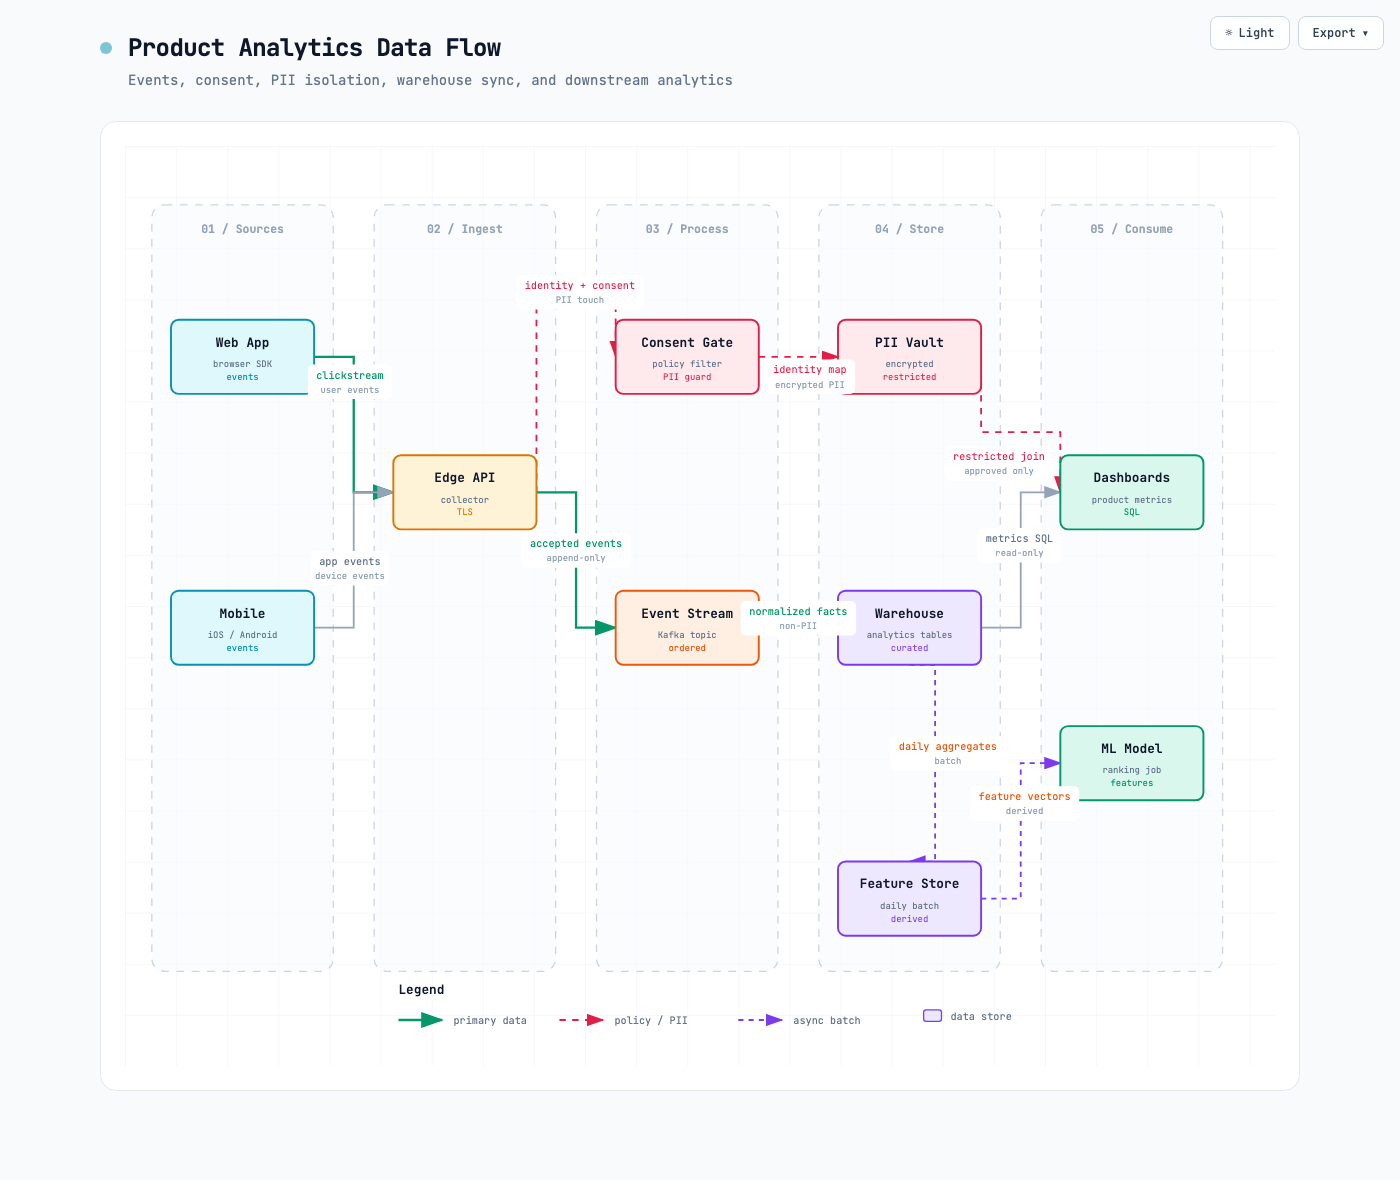
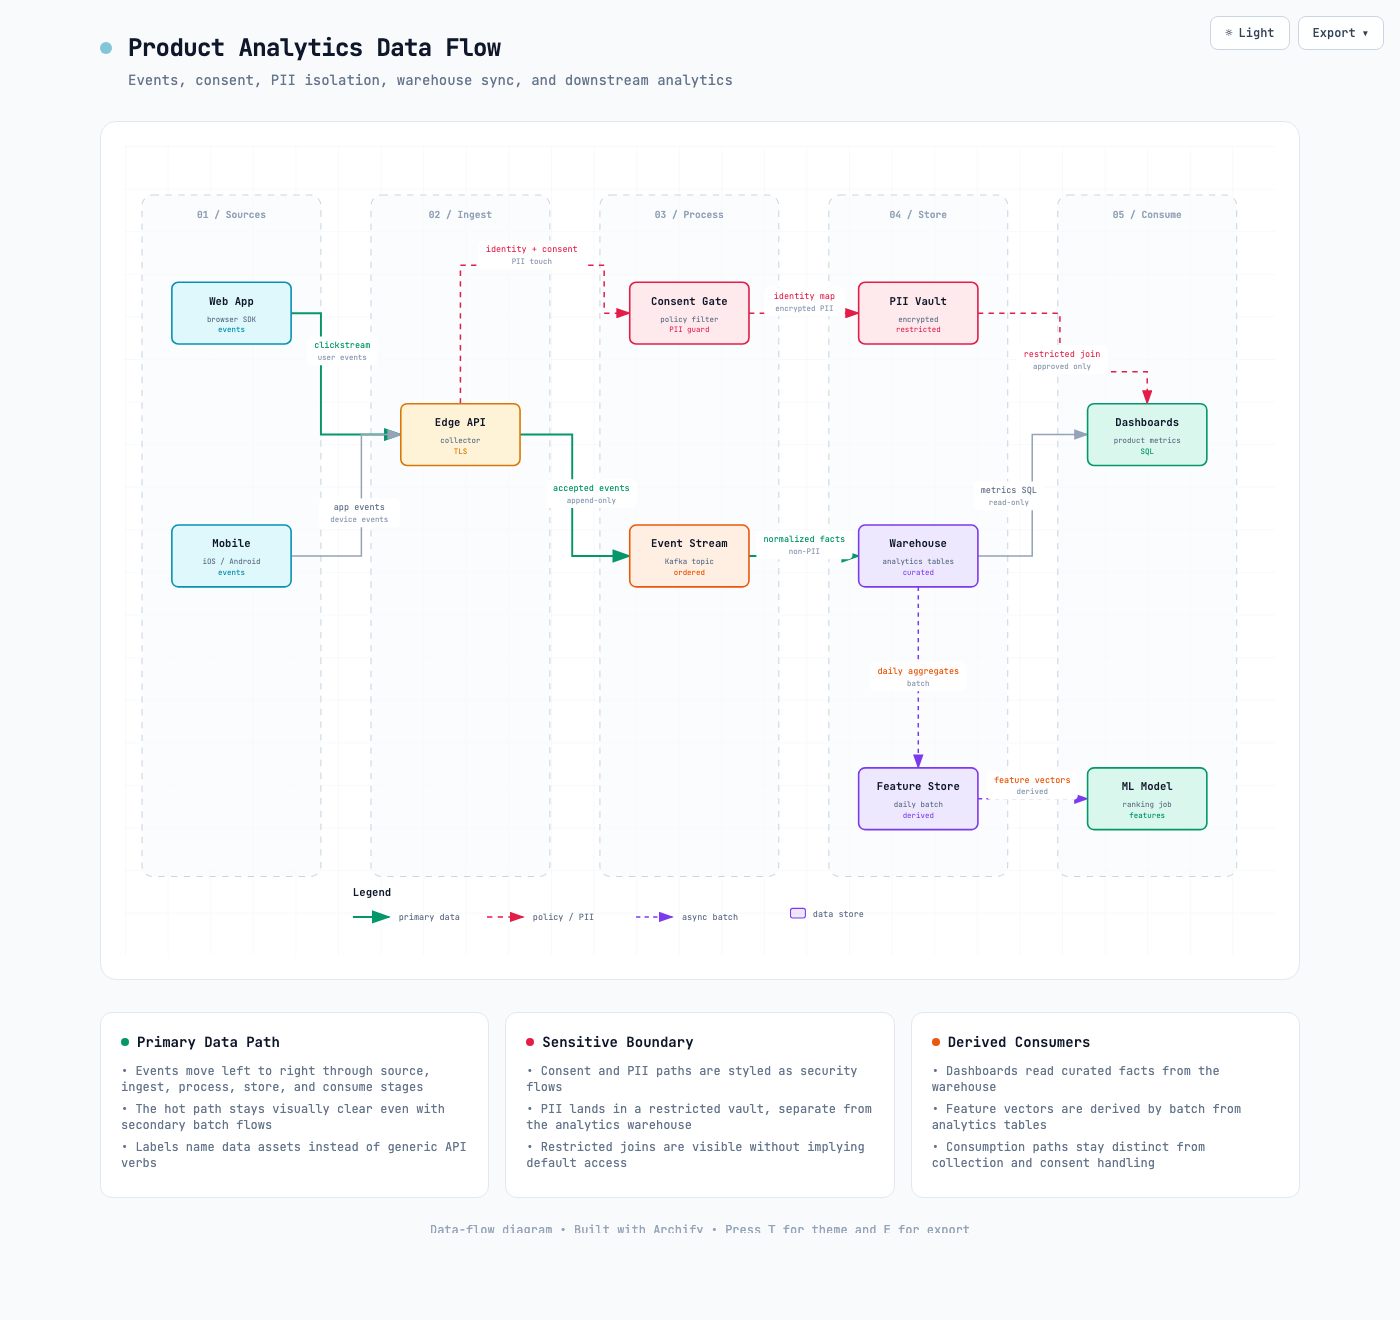
Polish data-flow diagram layout

diff --git a/examples/dataflow-product-analytics.html b/examples/dataflow-product-analytics.html
@@ -448,7 +448,7 @@
 
     <!-- Main Diagram -->
     <div class="diagram-container">
-      <svg viewBox="0 0 900 720">
+      <svg viewBox="0 0 1080 760">
         <!-- Definitions -->
         <defs>
           <marker id="arrowhead" markerWidth="10" markerHeight="7" refX="9" refY="3.5" orient="auto">
@@ -472,136 +472,136 @@
         <rect width="100%" height="100%" fill="url(#grid)" />
 
         <!-- Data Stages -->
-        <rect x="21" y="46" width="142" height="600" rx="10" class="c-lane" stroke-width="1"/>
-        <text x="92" y="68" class="t-dim" font-size="9" font-weight="600" text-anchor="middle">01 / Sources</text>
+        <rect x="16" y="46" width="168" height="640" rx="10" class="c-lane" stroke-width="1"/>
+        <text x="100" y="68" class="t-dim" font-size="9" font-weight="600" text-anchor="middle">01 / Sources</text>
 
-        <rect x="195" y="46" width="142" height="600" rx="10" class="c-lane" stroke-width="1"/>
-        <text x="266" y="68" class="t-dim" font-size="9" font-weight="600" text-anchor="middle">02 / Ingest</text>
+        <rect x="231" y="46" width="168" height="640" rx="10" class="c-lane" stroke-width="1"/>
+        <text x="315" y="68" class="t-dim" font-size="9" font-weight="600" text-anchor="middle">02 / Ingest</text>
 
-        <rect x="369" y="46" width="142" height="600" rx="10" class="c-lane" stroke-width="1"/>
-        <text x="440" y="68" class="t-dim" font-size="9" font-weight="600" text-anchor="middle">03 / Process</text>
+        <rect x="446" y="46" width="168" height="640" rx="10" class="c-lane" stroke-width="1"/>
+        <text x="530" y="68" class="t-dim" font-size="9" font-weight="600" text-anchor="middle">03 / Process</text>
 
-        <rect x="543" y="46" width="142" height="600" rx="10" class="c-lane" stroke-width="1"/>
-        <text x="614" y="68" class="t-dim" font-size="9" font-weight="600" text-anchor="middle">04 / Store</text>
+        <rect x="661" y="46" width="168" height="640" rx="10" class="c-lane" stroke-width="1"/>
+        <text x="745" y="68" class="t-dim" font-size="9" font-weight="600" text-anchor="middle">04 / Store</text>
 
-        <rect x="717" y="46" width="142" height="600" rx="10" class="c-lane" stroke-width="1"/>
-        <text x="788" y="68" class="t-dim" font-size="9" font-weight="600" text-anchor="middle">05 / Consume</text>
+        <rect x="876" y="46" width="168" height="640" rx="10" class="c-lane" stroke-width="1"/>
+        <text x="960" y="68" class="t-dim" font-size="9" font-weight="600" text-anchor="middle">05 / Consume</text>
 
         <!-- Flow paths -->
-        <path d="M 148 165 L 179 165 L 179 271 L 210 271" class="a-emphasis" stroke-width="1.8" marker-end="url(#arrowhead-emphasis)"/>
-        <path d="M 148 377 L 179 377 L 179 271 L 210 271" class="a-default" stroke-width="1.4" marker-end="url(#arrowhead)"/>
-        <path d="M 322 271 L 322 124 L 384 124 L 384 165" class="a-security" stroke-width="1.4" marker-end="url(#arrowhead-security)"/>
-        <path d="M 322 271 L 353 271 L 353 377 L 384 377" class="a-emphasis" stroke-width="1.8" marker-end="url(#arrowhead-emphasis)"/>
-        <path d="M 496 165 L 558 165" class="a-security" stroke-width="1.4" marker-end="url(#arrowhead-security)"/>
-        <path d="M 496 377 L 558 377" class="a-emphasis" stroke-width="1.8" marker-end="url(#arrowhead-emphasis)"/>
-        <path d="M 614 406 L 634 406 L 634 560 L 614 560" class="a-dashed" stroke-width="1.4" marker-end="url(#arrowhead-dashed)"/>
-        <path d="M 670 377 L 701 377 L 701 271 L 732 271" class="a-default" stroke-width="1.4" marker-end="url(#arrowhead)"/>
-        <path d="M 670 589 L 701 589 L 701 483 L 732 483" class="a-dashed" stroke-width="1.4" marker-end="url(#arrowhead-dashed)"/>
-        <path d="M 670 165 L 670 224 L 732 224 L 732 271" class="a-security" stroke-width="1.4" marker-end="url(#arrowhead-security)"/>
+        <path d="M 156 157 L 184 157 L 184 271 L 259 271" class="a-emphasis" stroke-width="1.8" marker-end="url(#arrowhead-emphasis)"/>
+        <path d="M 156 385 L 222 385 L 222 271 L 259 271" class="a-default" stroke-width="1.4" marker-end="url(#arrowhead)"/>
+        <path d="M 315 242 L 315 112 L 450 112 L 450 157 L 474 157" class="a-security" stroke-width="1.4" marker-end="url(#arrowhead-security)"/>
+        <path d="M 371 271 L 420 271 L 420 385 L 474 385" class="a-emphasis" stroke-width="1.8" marker-end="url(#arrowhead-emphasis)"/>
+        <path d="M 586 157 L 689 157" class="a-security" stroke-width="1.4" marker-end="url(#arrowhead-security)"/>
+        <path d="M 586 385 L 689 385" class="a-emphasis" stroke-width="1.8" marker-end="url(#arrowhead-emphasis)"/>
+        <path d="M 745 414 L 745 584" class="a-dashed" stroke-width="1.4" marker-end="url(#arrowhead-dashed)"/>
+        <path d="M 801 385 L 852 385 L 852 271 L 904 271" class="a-default" stroke-width="1.4" marker-end="url(#arrowhead)"/>
+        <path d="M 801 613 L 904 613" class="a-dashed" stroke-width="1.4" marker-end="url(#arrowhead-dashed)"/>
+        <path d="M 801 157 L 878 157 L 878 212 L 960 212 L 960 242" class="a-security" stroke-width="1.4" marker-end="url(#arrowhead-security)"/>
 
         <!-- Nodes -->
-        <rect x="36" y="136" width="112" height="58" rx="6" class="c-mask"/>
-        <rect x="36" y="136" width="112" height="58" rx="6" class="c-frontend" stroke-width="1.5"/>
-        <text x="92" y="157" class="t-primary" font-size="10" font-weight="600" text-anchor="middle">Web App</text>
-        <text x="92" y="173" class="t-muted" font-size="7" text-anchor="middle">browser SDK</text>
-        <text x="92" y="183" class="t-frontend" font-size="7" text-anchor="middle">events</text>
+        <rect x="44" y="128" width="112" height="58" rx="6" class="c-mask"/>
+        <rect x="44" y="128" width="112" height="58" rx="6" class="c-frontend" stroke-width="1.5"/>
+        <text x="100" y="149" class="t-primary" font-size="10" font-weight="600" text-anchor="middle">Web App</text>
+        <text x="100" y="165" class="t-muted" font-size="7" text-anchor="middle">browser SDK</text>
+        <text x="100" y="175" class="t-frontend" font-size="7" text-anchor="middle">events</text>
 
-        <rect x="36" y="348" width="112" height="58" rx="6" class="c-mask"/>
-        <rect x="36" y="348" width="112" height="58" rx="6" class="c-frontend" stroke-width="1.5"/>
-        <text x="92" y="369" class="t-primary" font-size="10" font-weight="600" text-anchor="middle">Mobile</text>
-        <text x="92" y="385" class="t-muted" font-size="7" text-anchor="middle">iOS / Android</text>
-        <text x="92" y="395" class="t-frontend" font-size="7" text-anchor="middle">events</text>
+        <rect x="44" y="356" width="112" height="58" rx="6" class="c-mask"/>
+        <rect x="44" y="356" width="112" height="58" rx="6" class="c-frontend" stroke-width="1.5"/>
+        <text x="100" y="377" class="t-primary" font-size="10" font-weight="600" text-anchor="middle">Mobile</text>
+        <text x="100" y="393" class="t-muted" font-size="7" text-anchor="middle">iOS / Android</text>
+        <text x="100" y="403" class="t-frontend" font-size="7" text-anchor="middle">events</text>
 
-        <rect x="210" y="242" width="112" height="58" rx="6" class="c-mask"/>
-        <rect x="210" y="242" width="112" height="58" rx="6" class="c-cloud" stroke-width="1.5"/>
-        <text x="266" y="263" class="t-primary" font-size="10" font-weight="600" text-anchor="middle">Edge API</text>
-        <text x="266" y="279" class="t-muted" font-size="7" text-anchor="middle">collector</text>
-        <text x="266" y="289" class="t-cloud" font-size="7" text-anchor="middle">TLS</text>
+        <rect x="259" y="242" width="112" height="58" rx="6" class="c-mask"/>
+        <rect x="259" y="242" width="112" height="58" rx="6" class="c-cloud" stroke-width="1.5"/>
+        <text x="315" y="263" class="t-primary" font-size="10" font-weight="600" text-anchor="middle">Edge API</text>
+        <text x="315" y="279" class="t-muted" font-size="7" text-anchor="middle">collector</text>
+        <text x="315" y="289" class="t-cloud" font-size="7" text-anchor="middle">TLS</text>
 
-        <rect x="384" y="136" width="112" height="58" rx="6" class="c-mask"/>
-        <rect x="384" y="136" width="112" height="58" rx="6" class="c-security" stroke-width="1.5"/>
-        <text x="440" y="157" class="t-primary" font-size="10" font-weight="600" text-anchor="middle">Consent Gate</text>
-        <text x="440" y="173" class="t-muted" font-size="7" text-anchor="middle">policy filter</text>
-        <text x="440" y="183" class="t-security" font-size="7" text-anchor="middle">PII guard</text>
+        <rect x="474" y="128" width="112" height="58" rx="6" class="c-mask"/>
+        <rect x="474" y="128" width="112" height="58" rx="6" class="c-security" stroke-width="1.5"/>
+        <text x="530" y="149" class="t-primary" font-size="10" font-weight="600" text-anchor="middle">Consent Gate</text>
+        <text x="530" y="165" class="t-muted" font-size="7" text-anchor="middle">policy filter</text>
+        <text x="530" y="175" class="t-security" font-size="7" text-anchor="middle">PII guard</text>
 
-        <rect x="384" y="348" width="112" height="58" rx="6" class="c-mask"/>
-        <rect x="384" y="348" width="112" height="58" rx="6" class="c-messagebus" stroke-width="1.5"/>
-        <text x="440" y="369" class="t-primary" font-size="10" font-weight="600" text-anchor="middle">Event Stream</text>
-        <text x="440" y="385" class="t-muted" font-size="7" text-anchor="middle">Kafka topic</text>
-        <text x="440" y="395" class="t-messagebus" font-size="7" text-anchor="middle">ordered</text>
+        <rect x="474" y="356" width="112" height="58" rx="6" class="c-mask"/>
+        <rect x="474" y="356" width="112" height="58" rx="6" class="c-messagebus" stroke-width="1.5"/>
+        <text x="530" y="377" class="t-primary" font-size="10" font-weight="600" text-anchor="middle">Event Stream</text>
+        <text x="530" y="393" class="t-muted" font-size="7" text-anchor="middle">Kafka topic</text>
+        <text x="530" y="403" class="t-messagebus" font-size="7" text-anchor="middle">ordered</text>
 
-        <rect x="558" y="136" width="112" height="58" rx="6" class="c-mask"/>
-        <rect x="558" y="136" width="112" height="58" rx="6" class="c-security" stroke-width="1.5"/>
-        <text x="614" y="157" class="t-primary" font-size="10" font-weight="600" text-anchor="middle">PII Vault</text>
-        <text x="614" y="173" class="t-muted" font-size="7" text-anchor="middle">encrypted</text>
-        <text x="614" y="183" class="t-security" font-size="7" text-anchor="middle">restricted</text>
+        <rect x="689" y="128" width="112" height="58" rx="6" class="c-mask"/>
+        <rect x="689" y="128" width="112" height="58" rx="6" class="c-security" stroke-width="1.5"/>
+        <text x="745" y="149" class="t-primary" font-size="10" font-weight="600" text-anchor="middle">PII Vault</text>
+        <text x="745" y="165" class="t-muted" font-size="7" text-anchor="middle">encrypted</text>
+        <text x="745" y="175" class="t-security" font-size="7" text-anchor="middle">restricted</text>
 
-        <rect x="558" y="348" width="112" height="58" rx="6" class="c-mask"/>
-        <rect x="558" y="348" width="112" height="58" rx="6" class="c-database" stroke-width="1.5"/>
-        <text x="614" y="369" class="t-primary" font-size="10" font-weight="600" text-anchor="middle">Warehouse</text>
-        <text x="614" y="385" class="t-muted" font-size="7" text-anchor="middle">analytics tables</text>
-        <text x="614" y="395" class="t-database" font-size="7" text-anchor="middle">curated</text>
+        <rect x="689" y="356" width="112" height="58" rx="6" class="c-mask"/>
+        <rect x="689" y="356" width="112" height="58" rx="6" class="c-database" stroke-width="1.5"/>
+        <text x="745" y="377" class="t-primary" font-size="10" font-weight="600" text-anchor="middle">Warehouse</text>
+        <text x="745" y="393" class="t-muted" font-size="7" text-anchor="middle">analytics tables</text>
+        <text x="745" y="403" class="t-database" font-size="7" text-anchor="middle">curated</text>
 
-        <rect x="558" y="560" width="112" height="58" rx="6" class="c-mask"/>
-        <rect x="558" y="560" width="112" height="58" rx="6" class="c-database" stroke-width="1.5"/>
-        <text x="614" y="581" class="t-primary" font-size="10" font-weight="600" text-anchor="middle">Feature Store</text>
-        <text x="614" y="597" class="t-muted" font-size="7" text-anchor="middle">daily batch</text>
-        <text x="614" y="607" class="t-database" font-size="7" text-anchor="middle">derived</text>
+        <rect x="689" y="584" width="112" height="58" rx="6" class="c-mask"/>
+        <rect x="689" y="584" width="112" height="58" rx="6" class="c-database" stroke-width="1.5"/>
+        <text x="745" y="605" class="t-primary" font-size="10" font-weight="600" text-anchor="middle">Feature Store</text>
+        <text x="745" y="621" class="t-muted" font-size="7" text-anchor="middle">daily batch</text>
+        <text x="745" y="631" class="t-database" font-size="7" text-anchor="middle">derived</text>
 
-        <rect x="732" y="242" width="112" height="58" rx="6" class="c-mask"/>
-        <rect x="732" y="242" width="112" height="58" rx="6" class="c-backend" stroke-width="1.5"/>
-        <text x="788" y="263" class="t-primary" font-size="10" font-weight="600" text-anchor="middle">Dashboards</text>
-        <text x="788" y="279" class="t-muted" font-size="7" text-anchor="middle">product metrics</text>
-        <text x="788" y="289" class="t-backend" font-size="7" text-anchor="middle">SQL</text>
+        <rect x="904" y="242" width="112" height="58" rx="6" class="c-mask"/>
+        <rect x="904" y="242" width="112" height="58" rx="6" class="c-backend" stroke-width="1.5"/>
+        <text x="960" y="263" class="t-primary" font-size="10" font-weight="600" text-anchor="middle">Dashboards</text>
+        <text x="960" y="279" class="t-muted" font-size="7" text-anchor="middle">product metrics</text>
+        <text x="960" y="289" class="t-backend" font-size="7" text-anchor="middle">SQL</text>
 
-        <rect x="732" y="454" width="112" height="58" rx="6" class="c-mask"/>
-        <rect x="732" y="454" width="112" height="58" rx="6" class="c-backend" stroke-width="1.5"/>
-        <text x="788" y="475" class="t-primary" font-size="10" font-weight="600" text-anchor="middle">ML Model</text>
-        <text x="788" y="491" class="t-muted" font-size="7" text-anchor="middle">ranking job</text>
-        <text x="788" y="501" class="t-backend" font-size="7" text-anchor="middle">features</text>
+        <rect x="904" y="584" width="112" height="58" rx="6" class="c-mask"/>
+        <rect x="904" y="584" width="112" height="58" rx="6" class="c-backend" stroke-width="1.5"/>
+        <text x="960" y="605" class="t-primary" font-size="10" font-weight="600" text-anchor="middle">ML Model</text>
+        <text x="960" y="621" class="t-muted" font-size="7" text-anchor="middle">ranking job</text>
+        <text x="960" y="631" class="t-backend" font-size="7" text-anchor="middle">features</text>
 
         <!-- Flow labels -->
-        <rect x="143.05" y="171" width="65.9" height="27" rx="4" class="c-mask"/>
-        <text x="176" y="182" class="t-backend" font-size="8" text-anchor="middle">clickstream</text>
-        <text x="176" y="193" class="t-dim" font-size="7" text-anchor="middle">user events</text>
-        <rect x="145.5" y="317" width="61" height="27" rx="4" class="c-mask"/>
-        <text x="176" y="328" class="t-muted" font-size="8" text-anchor="middle">app events</text>
-        <text x="176" y="339" class="t-dim" font-size="7" text-anchor="middle">device events</text>
-        <rect x="305.9" y="101" width="100.2" height="27" rx="4" class="c-mask"/>
-        <text x="356" y="112" class="t-security" font-size="8" text-anchor="middle">identity + consent</text>
-        <text x="356" y="123" class="t-dim" font-size="7" text-anchor="middle">PII touch</text>
-        <rect x="310.25" y="303" width="85.5" height="27" rx="4" class="c-mask"/>
-        <text x="353" y="314" class="t-backend" font-size="8" text-anchor="middle">accepted events</text>
-        <text x="353" y="325" class="t-dim" font-size="7" text-anchor="middle">append-only</text>
-        <rect x="500.6" y="167" width="70.80000000000001" height="27" rx="4" class="c-mask"/>
-        <text x="536" y="178" class="t-security" font-size="8" text-anchor="middle">identity map</text>
-        <text x="536" y="189" class="t-dim" font-size="7" text-anchor="middle">encrypted PII</text>
-        <rect x="481.8" y="356" width="90.4" height="27" rx="4" class="c-mask"/>
-        <text x="527" y="367" class="t-backend" font-size="8" text-anchor="middle">normalized facts</text>
-        <text x="527" y="378" class="t-dim" font-size="7" text-anchor="middle">non-PII</text>
-        <rect x="598.8" y="462" width="90.4" height="27" rx="4" class="c-mask"/>
-        <text x="644" y="473" class="t-messagebus" font-size="8" text-anchor="middle">daily aggregates</text>
-        <text x="644" y="484" class="t-dim" font-size="7" text-anchor="middle">batch</text>
-        <rect x="667.05" y="299" width="65.9" height="27" rx="4" class="c-mask"/>
-        <text x="700" y="310" class="t-muted" font-size="8" text-anchor="middle">metrics SQL</text>
-        <text x="700" y="321" class="t-dim" font-size="7" text-anchor="middle">read-only</text>
-        <rect x="661.25" y="501" width="85.5" height="27" rx="4" class="c-mask"/>
-        <text x="704" y="512" class="t-messagebus" font-size="8" text-anchor="middle">feature vectors</text>
-        <text x="704" y="523" class="t-dim" font-size="7" text-anchor="middle">derived</text>
-        <rect x="641.25" y="235" width="85.5" height="27" rx="4" class="c-mask"/>
-        <text x="684" y="246" class="t-security" font-size="8" text-anchor="middle">restricted join</text>
-        <text x="684" y="257" class="t-dim" font-size="7" text-anchor="middle">approved only</text>
+        <rect x="171.05" y="179" width="65.9" height="27" rx="4" class="c-mask"/>
+        <text x="204" y="190" class="t-backend" font-size="8" text-anchor="middle">clickstream</text>
+        <text x="204" y="201" class="t-dim" font-size="7" text-anchor="middle">user events</text>
+        <rect x="182.15" y="331" width="75.7" height="27" rx="4" class="c-mask"/>
+        <text x="220" y="342" class="t-muted" font-size="8" text-anchor="middle">app events</text>
+        <text x="220" y="353" class="t-dim" font-size="7" text-anchor="middle">device events</text>
+        <rect x="331.9" y="89" width="100.2" height="27" rx="4" class="c-mask"/>
+        <text x="382" y="100" class="t-security" font-size="8" text-anchor="middle">identity + consent</text>
+        <text x="382" y="111" class="t-dim" font-size="7" text-anchor="middle">PII touch</text>
+        <rect x="395.25" y="313" width="85.5" height="27" rx="4" class="c-mask"/>
+        <text x="438" y="324" class="t-backend" font-size="8" text-anchor="middle">accepted events</text>
+        <text x="438" y="335" class="t-dim" font-size="7" text-anchor="middle">append-only</text>
+        <rect x="600.15" y="133" width="75.7" height="27" rx="4" class="c-mask"/>
+        <text x="638" y="144" class="t-security" font-size="8" text-anchor="middle">identity map</text>
+        <text x="638" y="155" class="t-dim" font-size="7" text-anchor="middle">encrypted PII</text>
+        <rect x="592.8" y="361" width="90.4" height="27" rx="4" class="c-mask"/>
+        <text x="638" y="372" class="t-backend" font-size="8" text-anchor="middle">normalized facts</text>
+        <text x="638" y="383" class="t-dim" font-size="7" text-anchor="middle">non-PII</text>
+        <rect x="699.8" y="485" width="90.4" height="27" rx="4" class="c-mask"/>
+        <text x="745" y="496" class="t-messagebus" font-size="8" text-anchor="middle">daily aggregates</text>
+        <text x="745" y="507" class="t-dim" font-size="7" text-anchor="middle">batch</text>
+        <rect x="797.05" y="315" width="65.9" height="27" rx="4" class="c-mask"/>
+        <text x="830" y="326" class="t-muted" font-size="8" text-anchor="middle">metrics SQL</text>
+        <text x="830" y="337" class="t-dim" font-size="7" text-anchor="middle">read-only</text>
+        <rect x="809.25" y="587" width="85.5" height="27" rx="4" class="c-mask"/>
+        <text x="852" y="598" class="t-messagebus" font-size="8" text-anchor="middle">feature vectors</text>
+        <text x="852" y="609" class="t-dim" font-size="7" text-anchor="middle">derived</text>
+        <rect x="837.25" y="187" width="85.5" height="27" rx="4" class="c-mask"/>
+        <text x="880" y="198" class="t-security" font-size="8" text-anchor="middle">restricted join</text>
+        <text x="880" y="209" class="t-dim" font-size="7" text-anchor="middle">approved only</text>
 
         <!-- Legend -->
-        <text x="214" y="664" class="t-primary" font-size="10" font-weight="600">Legend</text>
-        <path d="M 214 684 L 248 684" class="a-emphasis" stroke-width="1.8" marker-end="url(#arrowhead-emphasis)"/>
-        <text x="257" y="687" class="t-muted" font-size="8">primary data</text>
-        <path d="M 340 684 L 374 684" class="a-security" stroke-width="1.4" marker-end="url(#arrowhead-security)"/>
-        <text x="383" y="687" class="t-muted" font-size="8">policy / PII</text>
-        <path d="M 480 684 L 514 684" class="a-dashed" stroke-width="1.4" marker-end="url(#arrowhead-dashed)"/>
-        <text x="523" y="687" class="t-muted" font-size="8">async batch</text>
-        <rect x="625" y="676" width="14" height="9" rx="2" class="c-database" stroke-width="1"/>
-        <text x="646" y="684" class="t-muted" font-size="8">data store</text>
+        <text x="214" y="704" class="t-primary" font-size="10" font-weight="600">Legend</text>
+        <path d="M 214 724 L 248 724" class="a-emphasis" stroke-width="1.8" marker-end="url(#arrowhead-emphasis)"/>
+        <text x="257" y="727" class="t-muted" font-size="8">primary data</text>
+        <path d="M 340 724 L 374 724" class="a-security" stroke-width="1.4" marker-end="url(#arrowhead-security)"/>
+        <text x="383" y="727" class="t-muted" font-size="8">policy / PII</text>
+        <path d="M 480 724 L 514 724" class="a-dashed" stroke-width="1.4" marker-end="url(#arrowhead-dashed)"/>
+        <text x="523" y="727" class="t-muted" font-size="8">async batch</text>
+        <rect x="625" y="716" width="14" height="9" rx="2" class="c-database" stroke-width="1"/>
+        <text x="646" y="724" class="t-muted" font-size="8">data store</text>
       </svg>
     </div>
 
